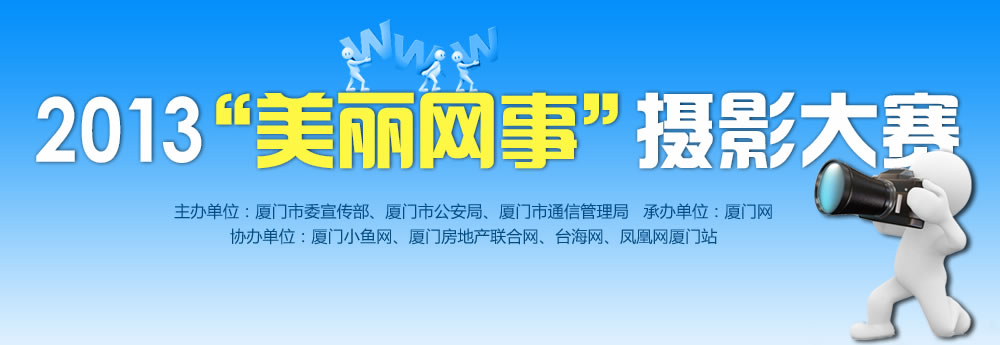
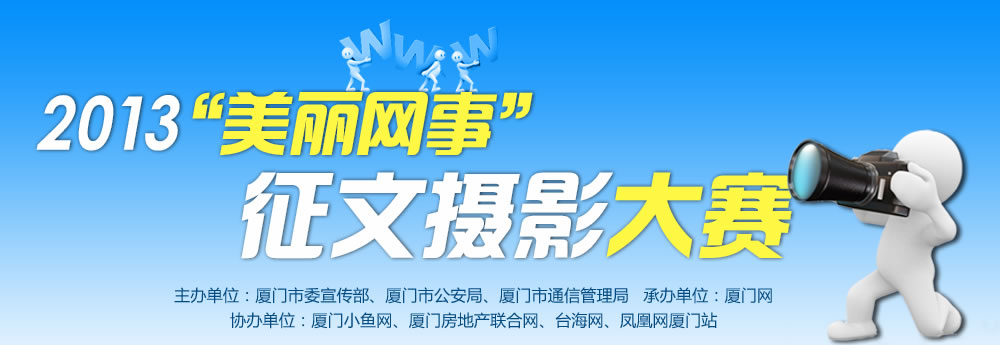
更改首页栏头，增加标题，上传内容页

diff --git a/detail.html b/detail.html
@@ -1,0 +1,92 @@
+<!DOCTYPE html PUBLIC "-//W3C//DTD XHTML 1.0 Transitional//EN" "http://www.w3.org/TR/xhtml1/DTD/xhtml1-transitional.dtd">
+<html xmlns="http://www.w3.org/1999/xhtml">
+<head>
+<meta http-equiv="Content-Type" content="text/html; charset=utf-8" />
+<title>美丽网事摄影赛</title>
+<meta name="keywords" content="美丽网事摄影赛" /> 
+<meta name="description" content="描述" />
+<link rel="icon" type="image/x-icon" href="http://xmnn.cn/favicon.ico" />
+<link href="css/style.css" rel="stylesheet" type="text/css" ignoreapd="1" />
+</head>
+
+<body>
+<script>var xmnnheader='white'; //参数为目标网站背景色</script>
+<script type="text/javascript" src="http://www.xmnn.cn/templates/xmnn2010/js/header/header_out.js" ignoreapd="1" charset="utf-8"></script>
+<div id="h" role="banner">
+	<div class="w">
+        <div class="nav">
+            <ul class="li-fl clearfix">
+                <li><a href="#">首页</a></li>
+                <li><a href="#">奖项设置</a></li>
+                <li><a href="#">参赛指南</a></li>
+                <li><a href="#">厦门网海峡博客</a></li>
+                <li><a href="#">正文大赛投票</a></li>
+                <li><a href="#">摄影大赛投票</a></li>
+                <li><a href="#">获奖名单</a></li>
+            </ul>
+        </div>
+    </div>
+</div>
+<div id="b" role="main">
+	<div class="w">
+    	<div class="r r3">
+        	<!--新闻-->
+            <div class="m4" role="article">
+					<div class="h">
+						<div class="hr1">
+							<h1>2013年全球国际花园城市(社区)大赛总决赛组织机构</h1>
+						</div>
+						<div class="hr2">
+							来源：厦门网 | 发布时间： 2013-04-22 13:50 | 
+						</div>
+					</div>
+					<div class="b">
+						<div class="br1">
+							《中国大学生美术作品年鉴》旨在集中刊登展示我国高等院校在校生优秀的绘画与设计作品。《年鉴》以时间顺序为线索，以年度成果为横断面，真实全面展现当代中国高等院校美术与设计类专业在校生们的创作才华与进取精神，同时也为各艺术院校之间在学术理论上的探讨研究、在教学实践上的开拓创新，及广大同学之间的交流学习，提供一个重要平台。本《年鉴》为中国出版集团艺术类重点出<br />
+
+A、中国高等院校在校学生（含港澳台地区的专科生、本科生、研究生、成教生及在华注册的外国留<br />
+
+B、大学期间创作的作品均可投稿，本《年鉴》往届收录过的作品不得再次投稿。<br />
+
+C、每人最多提交4 件作品（不设系列作品，允许多幅单件作品入选）。
+<br />
+D、投稿作品其著作权由投稿人负责，组织方对所有投稿作品拥有选编、出版、展览展示等权利。
+<br />
+E、截稿日期：个人稿件2013年5月30日24时截止；团体稿件2013年6月15日24时截止。
+<br />
+征稿类别
+<br />
+造型部分：中国画、油画、版画、雕塑、陶艺、装饰画、水彩、水粉、素描、速写、书法、篆刻等
+<br />
+设计部分：标志、广告（招贴）、包装、书籍、网页、环艺、产品、服装、摄影、动画、CG插画等
+<br />
+投稿规范（作品处理方式）
+<br />
+A、造型类作品和设计作品实物类：提交高清晰度数码照片，原始精度不低于1000万像素。
+<br />
+B、设计类电脑制作作品：提交电子设计稿，A4幅面，300DPI，CMYK模式，JPEG或TIFF格式（环艺表现类作品每件/套需提供不同视角效果图3-4张，不受理展板式自排作品；网页作品提交3-4个静态页面；动画类作品需按时间顺序提供静帧截图8-12幅）。
+
+						</div>
+						<div class="br2">
+							<a href="#" class="a1">1</a>
+							<a href="#">2</a>
+							<a href="#">3</a>
+							<a href="#">4</a>
+							<a href="#">5</a>
+							...
+							<a href="#" class="a2">下一页</a>
+						</div>
+                   </div>
+             </div>          
+            <!--新闻-->
+        </div>
+    </div>
+</div>
+<div id="f" role="contentinfo">
+<script>var xmnnfooter="white";//参数为背景颜色</script>
+<script type="text/javascript" src="http://www.xmnn.cn/templates/xmnn2010/js/footer/footer.js" ignoreapd="1" charset="utf-8"></script>
+</div>
+<script src="js/jquery.min.js" ignoreapd="1"></script>
+<script src="js/script.js" ignoreapd="1"></script>
+</body>
+</html>

diff --git a/css/style.css b/css/style.css
@@ -125,7 +125,8 @@ body{background:url(../img/body.jpg) repeat-x left 33px #fff;}
 .m1 .l1{padding-left:734px;}
 .m1 .l2{padding-left:727px;}
 /*-------------------模块m2--------------------------*/
-.m2{margin-top:34px; border:solid #E5E6E7; border-width:14px 12px; position:relative;}
+#b .r2{border:solid #E5E6E7; border-width:14px 12px; margin-top:34px;}
+.m2{position:relative;}
 .m2 .h{background:url(../img/m2-h.png) no-repeat; height:69px; left:-19px; top:-35px;}
 .m2 .b{margin-top:-30px; padding:0 15px;}
 .m2 .b th{font-size:16px; font-weight:bold; text-align:center; height:24px; line-height:24px;}
@@ -138,9 +139,17 @@ body{background:url(../img/body.jpg) repeat-x left 33px #fff;}
 .m2 .br2 img{ margin-right:10px; vertical-align:middle;}
 .m2 .btn{background:url(../img/btn.png) no-repeat; height:27px; line-height:27px; width:92px; border:none; cursor:pointer;}
 /*-------------------模块m3--------------------------*/
-
+.m3 .h{background:url(../img/m3-h.png) no-repeat; height:73px; left:-19px;}
 /*-------------------模块m4--------------------------*/
-
+.m4{margin:27px 20px 0; border:solid #E5E6E7; border-width:14px 12px; padding:15px;}
+.m4 .h{ margin-bottom:40px;}
+.m4 .hr1{font-size:26px; border-bottom:5px solid #E5E6E7; padding-bottom:14px; margin-bottom:10px;}
+.m4 .hr2{color: #575953;}
+.m4 .br1{font-size:14px; line-height:1.8; margin-bottom:45px;}
+.m4 .br2{margin-bottom:103px;}
+.m4 .br2 a{display:inline-block; height:25px; line-height:25px; text-align:center; width:25px;}
+.m4 .br2 .a1{ background:#222222; color:#fff;}
+.m4 .br2 .a2{background:url(../img/m4-a2.png) no-repeat; color:#fff; width:72px;}
 /*-------------------模块m5--------------------------*/
 
 /*-------------------模块m6--------------------------*/

diff --git a/index.html b/index.html
@@ -101,6 +101,14 @@
                 </div>
             </div>
             <!--摄影作品-->
+            <!--征文作品-->
+            <div class="m m3">
+            	<div class="h">
+                	<h2 class="vh">摄影作品</h2>
+                </div>
+                <div class="b"></div>
+            </div>
+            <!--征文作品-->
         </div>
     </div>
 </div>
